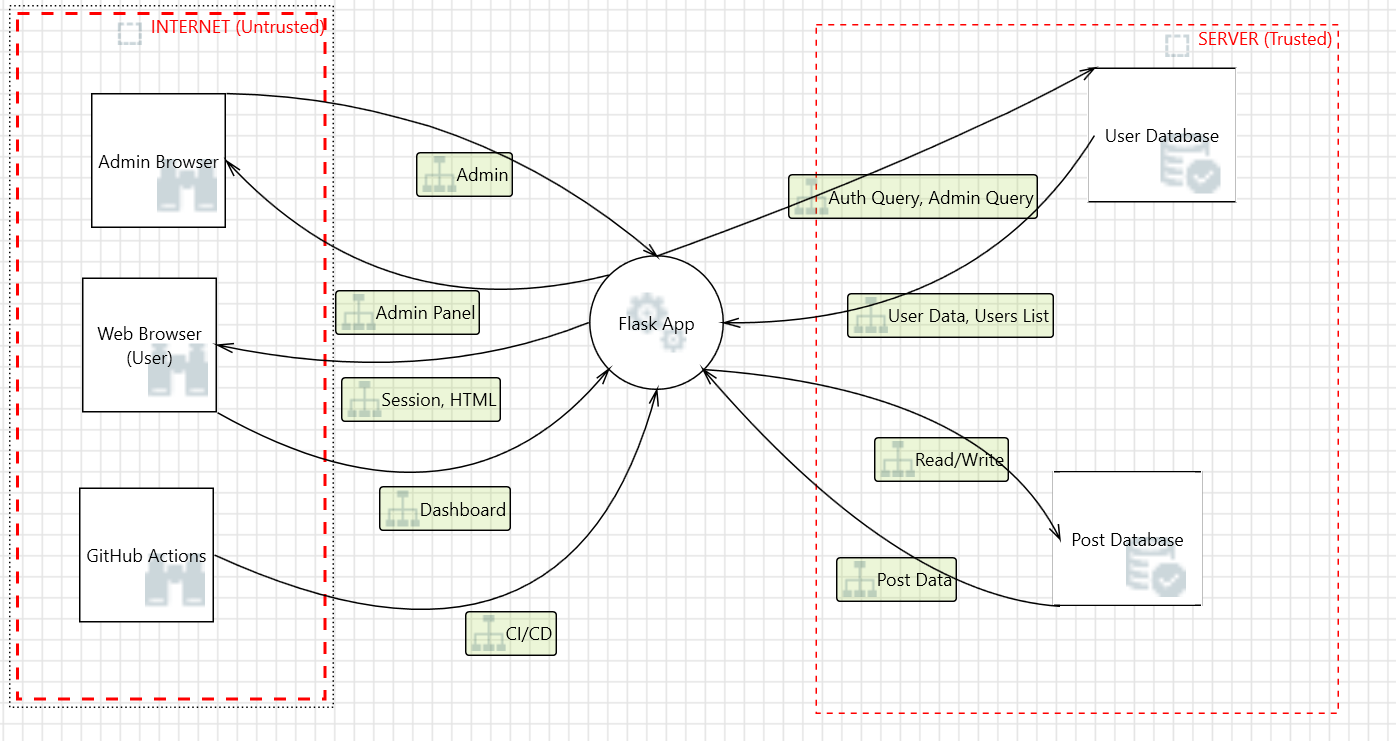
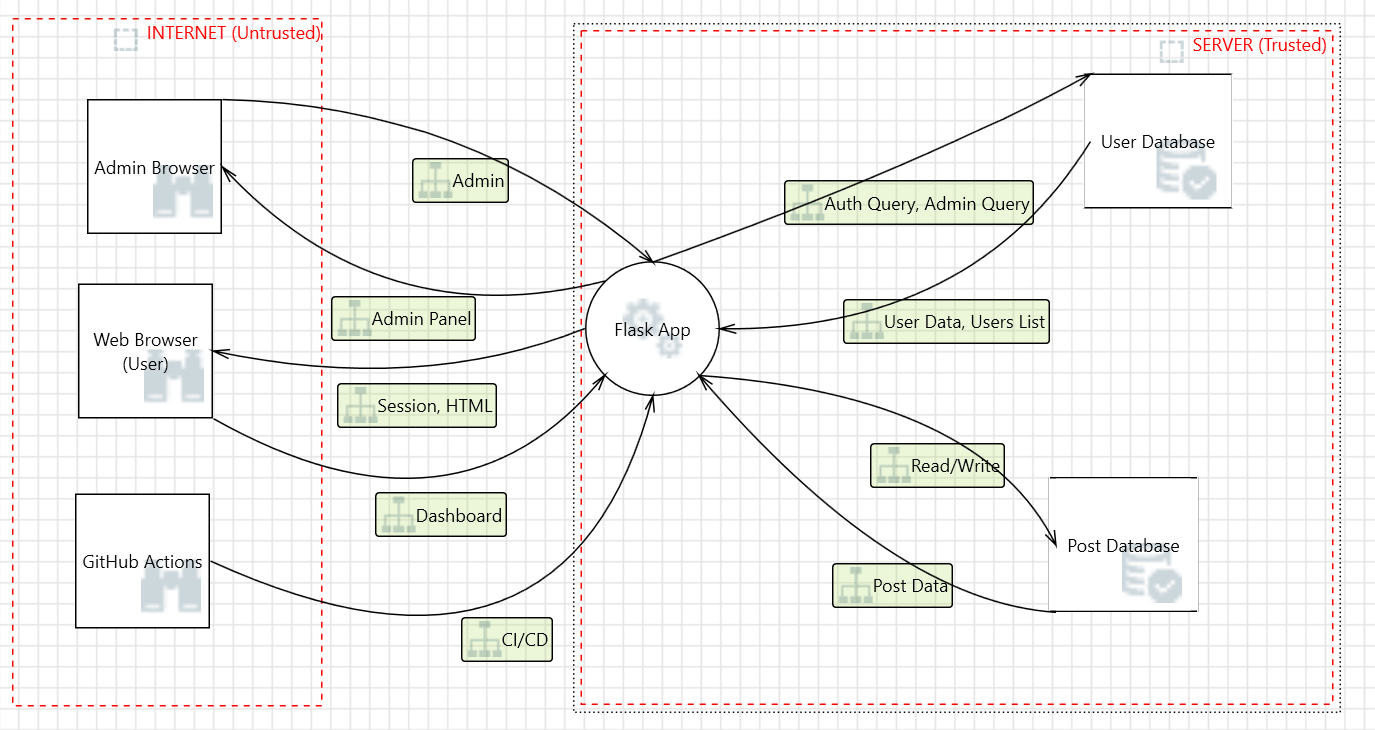
Threat model report update

diff --git a/docs/DevSecOps_Audit_Report.md b/docs/DevSecOps_Audit_Report.md
@@ -61,11 +61,11 @@ The application’s architecture introduces specific trust boundaries and attack
 
 The system follows a **layered architecture** with clear separation between client, application, and database layers.
 
-![Threat Model DFD](Threat_model.png)
+![Threat Model DFD](threat_model.png)
 
 **Trust Boundaries Identified:**
 - **Internet (Untrusted)** – Separates external browsers from internal Flask App
-- **CI/CD Boundary** – Isolates GitHub Actions pipeline from production app
+- **Server (Trusted)** – Contains Flask App, User Database, and Post Database
 
 **Actors & Data Flows:**
 | Actor | Direction | Data Flow |
@@ -107,8 +107,8 @@ Full STRIDE methodology applied to each component:
 **Attack Surface (Mapped to DAST/Pentest Scope):**
 | Attack Vector | DAST Test | Pentest Focus |
 |---------------|-----------|---------------|
-| SQL Injection (Login) | ZAP Scan | Auth bypass |
-| Stored XSS (Posts) | ZAP Active | Script injection |
+| SQL Injection (Login) | ✓ ZAP Scan | Auth bypass |
+| Stored XSS (Posts) | ✓ ZAP Active | Script injection |
 | IDOR (Delete) | Manual | Privilege escalation |
 | CSRF (Admin) | Manual | State-changing attacks |
 
@@ -124,6 +124,7 @@ Full STRIDE methodology applied to each component:
 | Hardcoded Secret | ✅ Env variable | SonarQube: Pass |
 
 ---
+
 
 ## 5. DevSecOps Pipeline Integration (CI/CD)
 To enforce continuous security, a robust DevSecOps pipeline was engineered using GitHub Actions (`security-pipeline.yml`). The pipeline is triggered automatically on every code push or pull request to the `main` branch.